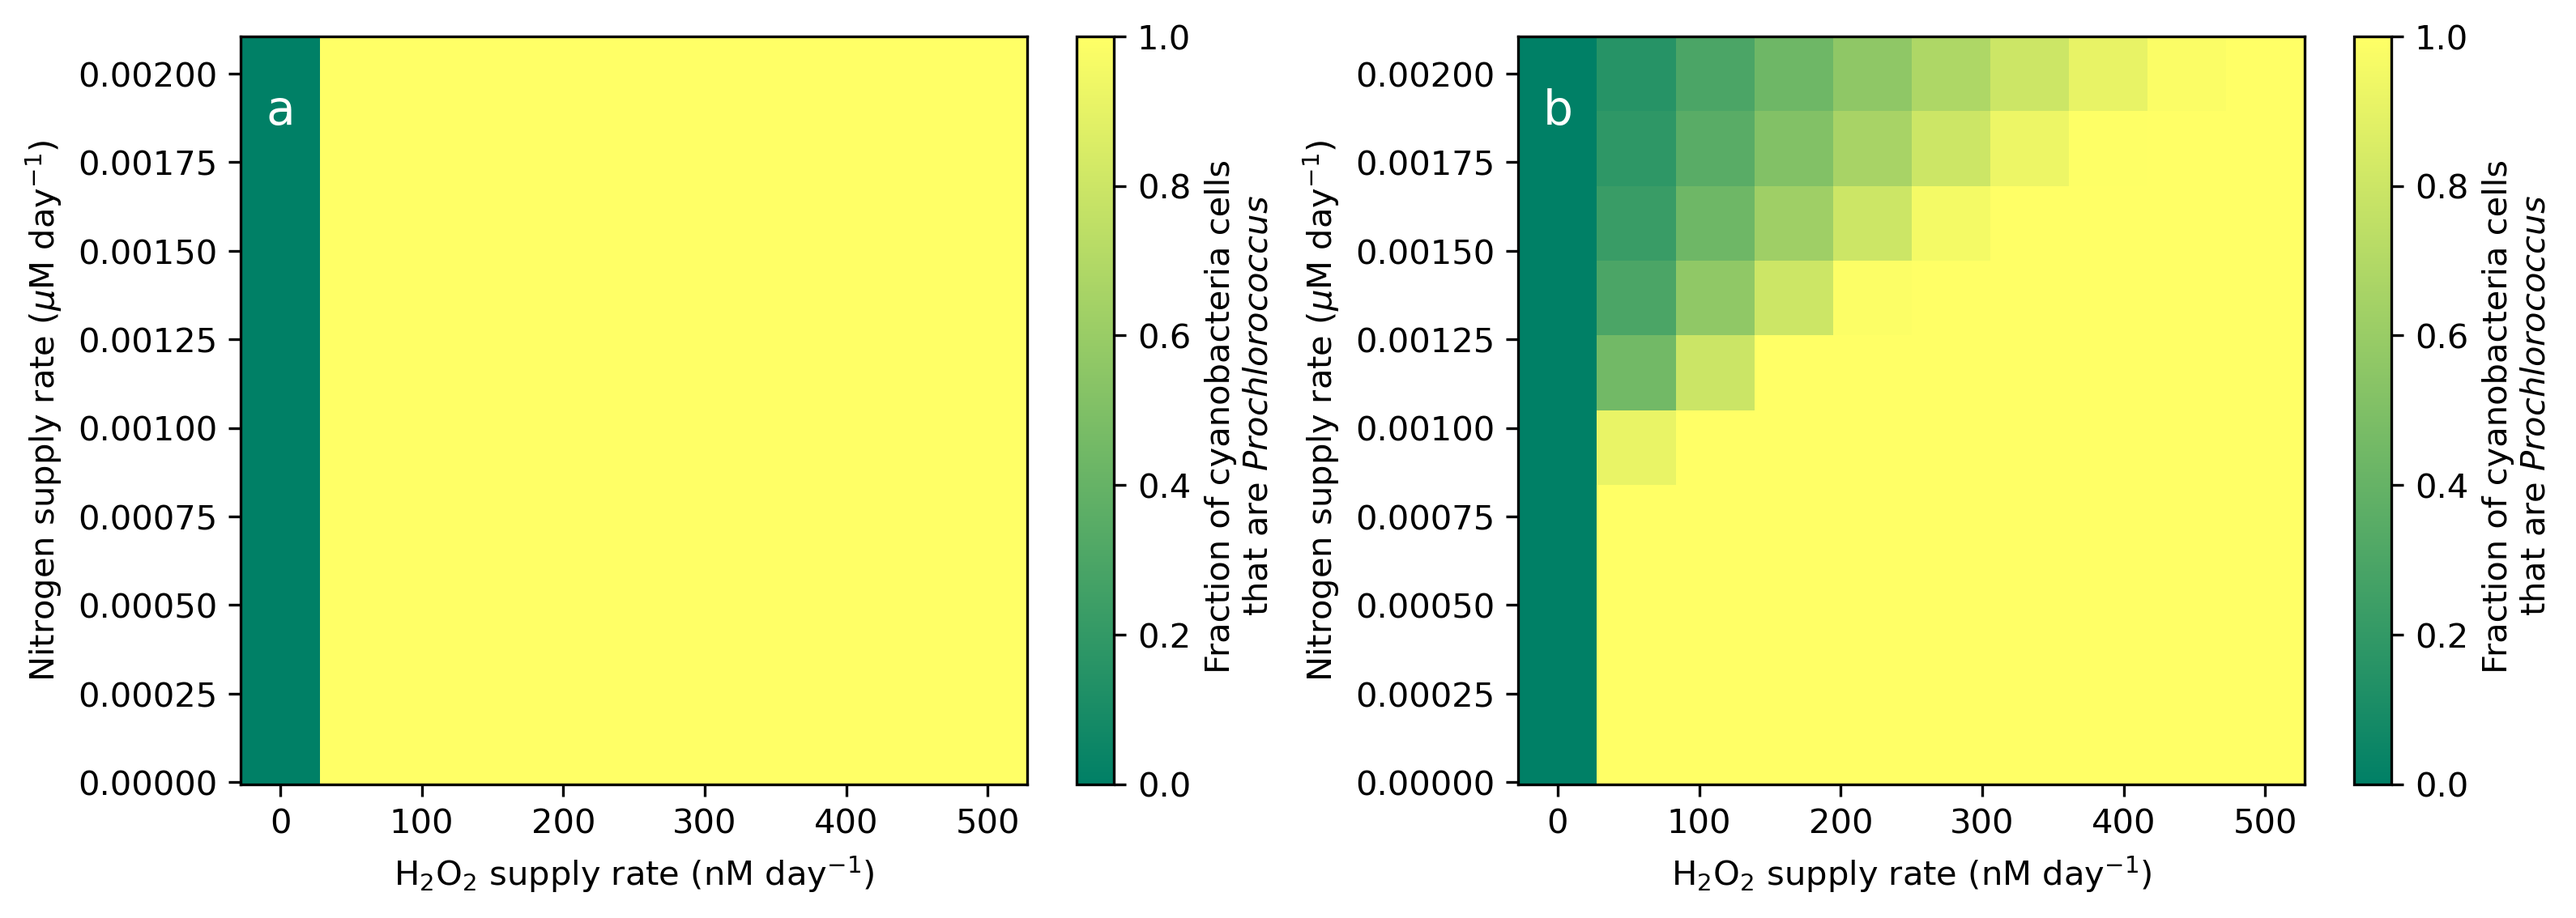
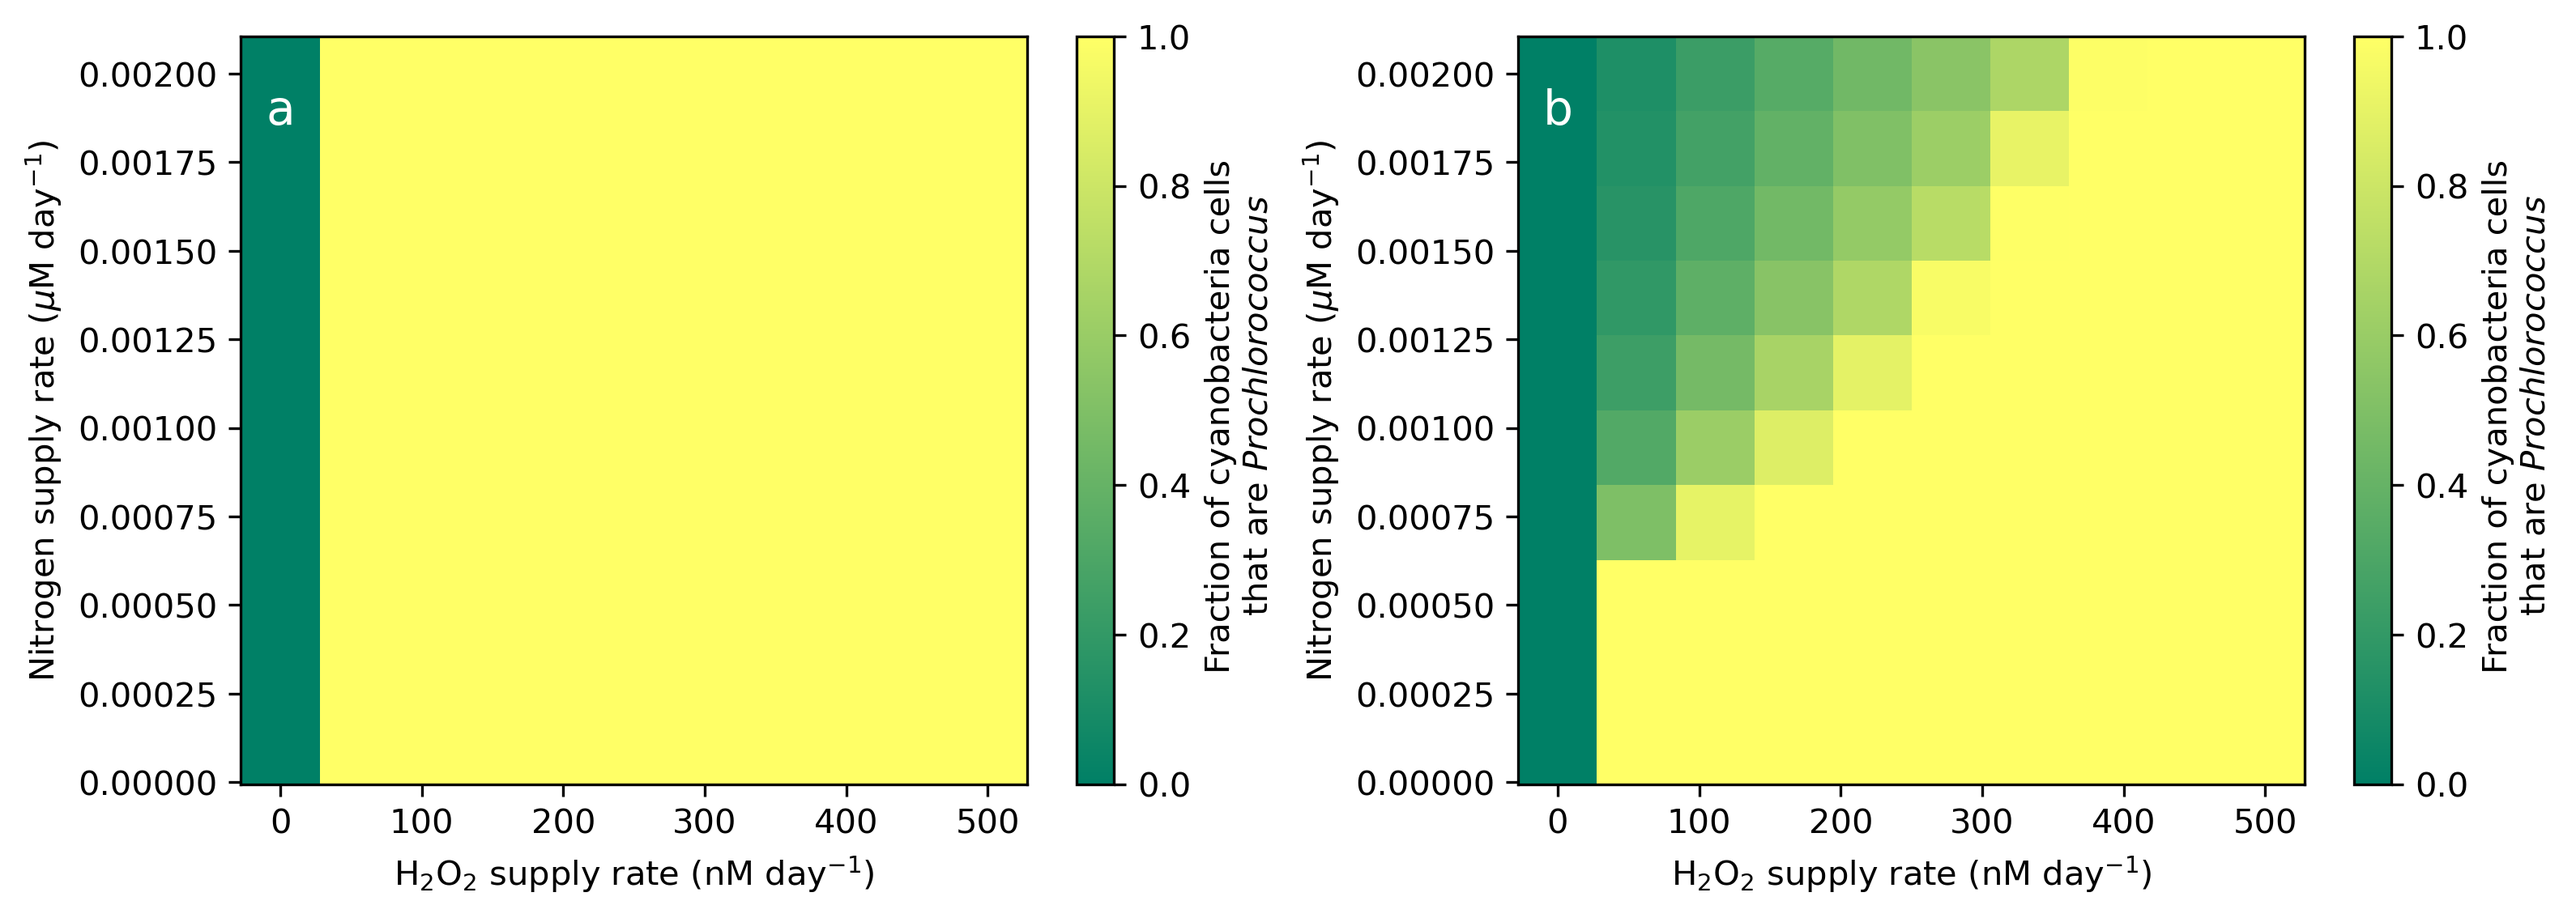
tweaks to plots

Changed region(s): [[0.6226, 0.0309, 0.8094, 0.6173]]

diff --git a/src/simulations.py b/src/simulations.py
@@ -54,8 +54,8 @@ H = np.array([])
 y = [P,S,N,H]
 
 #initial conditions
-P0 = 1e6
-S0 = 1e6
+P0 = 1e5
+S0 = 1e5
 N0 = 0.1 #nM 
 H0 = 1    #nM
 inits = (P0,S0,N0,H0)
@@ -68,8 +68,8 @@ Nc,Pc,Sc,Hc = Z.copy(),Z.copy(),Z.copy(),Z.copy()
 
 # axis limits
 cmin,cmax = 1e+5,1e+8
-nmin,nmax = 4e-4,1e-0
-hmin,hmax = 1e-2,3e+2
+nmin,nmax = 1e-4,1e-0
+hmin,hmax = 1e-2,1e+3
 
 # contour labels
 SNlab = r'Nitrogen supply rate ($\mu$M day$^{-1}$)'
@@ -111,7 +111,7 @@ f5.savefig('../figures/figure2',dpi=300,bbox_inches='tight')
 phi = 0.0
 for (i,SN) in zip(range(SNs.shape[0]),SNs):
     for (j,Sh) in zip(range(Shs.shape[0]),Shs):
-        params = [ksp,kss,mumaxp,mumaxs,dp,ds,kdam,deltah,phi,rho,SN,Sh,Qnp,Qns,0]
+        params = [ksp,kss,mumaxp,mumaxs,dp,ds,kdam,deltah,phi,rho,SN,Sh,Qnp,Qns,0,0]
         leaky  = odeint(leak, inits, mtimes, args = (params,))
         Psc = leaky[:,0]
         Ssc = leaky[:,1]
@@ -130,7 +130,7 @@ fig1.colorbar(grid, cmap= 'summer',label = cbarlab)
 phi = 1.7e-6
 for (i,SN) in zip(range(SNs.shape[0]),SNs):
     for (j,Sh) in zip(range(Shs.shape[0]),Shs):
-        params = [ksp,kss,mumaxp,mumaxs,dp,ds,kdam,deltah,phi,rho,SN,Sh,Qnp,Qns,0]
+        params = [ksp,kss,mumaxp,mumaxs,dp,ds,kdam,deltah,phi,rho,SN,Sh,Qnp,Qns,0,False]
         leaky  = odeint(leak, inits, mtimes, args = (params,))
         Psc = leaky[:,0]
         Ssc = leaky[:,1]
@@ -156,7 +156,8 @@ for (ax,C,cm,cmlab) in zip(axc,[Nc,Pc,Sc,Hc],['Purples','Blues','Reds','Greens']
     fig3.colorbar(grid,ax=ax,label=cmlab)
 
 # plot
-for (ax,C,levs) in zip(axc[1:],[Pc,Sc,Hc],[[1e+4,1e+5],[1e+4,1e+5],[0,200]]):
+Pc = np.ma.masked_where(Pc < 1e+2, Pc)
+for (ax,C,levs) in zip(axc[1:],[Pc,Sc,Hc],[[1e+3,1e+6],[1e+2,1e+5],[0,200]]):
     contour = ax.contour(Shs, SNs, C, levels=levs, colors='black')
     plt.clabel(contour, inline=True, fontsize=12)
 
@@ -169,7 +170,7 @@ ax_top.text(-0.3,1.0,'a',ha='center',va='center',color='k',transform=ax_top.tran
 #params for P to Win 
 Sh = Shs[0]
 SN  = SNs[2]
-params = [ksp,kss,mumaxp,mumaxs,dp,ds,kdam,deltah,phi,rho,SN,Sh,Qnp,Qns,0]
+params = [ksp,kss,mumaxp,mumaxs,dp,ds,kdam,deltah,phi,rho,SN,Sh,Qnp,Qns,0,False]
 
 #get equilibria with function 
 Nstar, Pstar, Sstar, Hstar = Pwins(params)
@@ -224,7 +225,7 @@ ax1.text(-0.2,1.2,'b',ha='center',va='center',color='k',transform=ax1.transAxes,
 #params for S to Win 
 Sh = Shs[-3]
 SN  = SNs[4]
-params = [ksp,kss,mumaxp,mumaxs,dp,ds,kdam,deltah,phi,rho,SN,Sh,Qnp,Qns,0]
+params = [ksp,kss,mumaxp,mumaxs,dp,ds,kdam,deltah,phi,rho,SN,Sh,Qnp,Qns,0,False]
 
 #get equilibria with function 
 Nstar, Pstar, Sstar, Hstar = Swins(params)
@@ -276,8 +277,8 @@ ax1.text(-0.2,1.2,'c',ha='center',va='center',color='k',transform=ax1.transAxes,
 
 #params for coexists
 Sh = Shs[2]
-SN = SNs[5]
-params = [ksp,kss,mumaxp,mumaxs,dp,ds,kdam,deltah,phi,rho,SN,Sh,Qnp,Qns,0]
+SN = SNs[7]
+params = [ksp,kss,mumaxp,mumaxs,dp,ds,kdam,deltah,phi,rho,SN,Sh,Qnp,Qns,0,False]
 
 #run model 
 competition  = odeint(leak, inits, mtimes, args = (params,))
@@ -365,16 +366,21 @@ ax2 = fig4.add_subplot(gs[0, 3:6])
 ax3 = fig4.add_subplot(gs[2, 1:5])
 ax4 = fig4.add_subplot(gs[3, 1:5])
 
-EZ55s = np.linspace(1e+5, 1e+6, num = 10)
+EZ55s = np.linspace(1e+4, 1e+6, num = 10)
 Shs = np.linspace(0, 500, num = 10)
 Z = np.zeros((int(EZ55s.shape[0]),int(Shs.shape[0])),float)
 HOOH = np.zeros((int(EZ55s.shape[0]),int(Shs.shape[0])),float)
-SN = SNs[5]
-inits = (1e+4,1e+4,0.1,10)
+SN = 0.00038
+#inits = (1e+2,1e+2,0.1,10)
+
+# time domain
+step = 0.001
+ndays = 800
+mtimes = np.linspace(0,ndays,int(ndays/step))
 
 for (i,EZ55) in zip(range(EZ55s.shape[0]),EZ55s):
     for (j,Sh) in zip(range(Shs.shape[0]),Shs):
-        params = [ksp,kss,mumaxp,mumaxs,dp,ds,kdam,deltah,phi,rho,SN,Sh,Qnp,Qns,EZ55]
+        params = [ksp,kss,mumaxp,mumaxs,dp,ds,kdam,deltah,phi,rho,SN,Sh,Qnp,Qns,EZ55,False]
         leaky  = odeint(leak, inits, mtimes, args = (params,))
         Nstar, Pstar, Sstar, Hstar = Coexist(params)
         Psc = leaky[:,0]
@@ -420,16 +426,19 @@ ax1t.set_ylabel(r'abiotic decay rate (day$^{-1}$)')
 # P WINS
 ####################
 # connecting arrows
-Sh,EZ55 = Shs[3], EZ55s[8]
+Sh,EZ55 = Shs[4], EZ55s[6]
 xyA = (Sh,EZ55/1e+6)
 xyB = (-0.2, 0.5)
 ax1.plot(*xyA, 'o', color='blue')
-con = ConnectionPatch(xyA, xyB, axesA = ax1, axesB = ax4, coordsA=ax1.transData, coordsB='axes fraction',
-                      color='black', arrowstyle='->', linewidth=2, connectionstyle='arc3,rad=0.2')
+
+
+
+con = ConnectionPatch(xyA, xyB, axesA = ax1, axesB = ax3, coordsA=ax1.transData, coordsB='axes fraction',
+                      color='black', arrowstyle='->', linewidth=2, connectionstyle='arc3,rad=0.3')
 fig4.add_artist(con)
 
 # dynamics
-params = [ksp,kss,mumaxp,mumaxs,dp,ds,kdam,deltah,phi,rho,SN,Sh,Qnp,Qns,EZ55]
+params = [ksp,kss,mumaxp,mumaxs,dp,ds,kdam,deltah,phi,rho,SN,Sh,Qnp,Qns,EZ55,False]
 competition  = odeint(leak, inits, mtimes, args = (params,))
 Nstar, Pstar, Sstar, Hstar = Pwins(params)
 Ps = competition[:,0]
@@ -447,18 +456,18 @@ l3.draw_frame(False)
 # S WINS
 ####################
 # connecting arrows
-Sh,EZ55 = Shs[7], EZ55s[7]
+Sh,EZ55 = Shs[3], EZ55s[1]
 xyA = (Sh,EZ55/1e+6)
-xyB = (0.25, 1.2)
+xyB = (-0.2, 0.5)
 ax1.plot(*xyA, 'o', color='blue')
-con = ConnectionPatch(xyA, xyB, axesA = ax1, axesB = ax3, coordsA=ax1.transData, coordsB='axes fraction',
-                      color='black', arrowstyle='->', linewidth=2, connectionstyle='arc3,rad=-0.3')
+con = ConnectionPatch(xyA, xyB, axesA = ax1, axesB = ax4, coordsA=ax1.transData, coordsB='axes fraction',
+                      color='black', arrowstyle='->', linewidth=2, connectionstyle='arc3,rad=0.4')
 fig4.add_artist(con)
 
 # dynamics
-params = [ksp,kss,mumaxp,mumaxs,dp,ds,kdam,deltah,phi,rho,SN,Sh,Qnp,Qns,EZ55]
+params = [ksp,kss,mumaxp,mumaxs,dp,ds,kdam,deltah,phi,rho,SN,Sh,Qnp,Qns,EZ55,False]
+Nstar, Pstar, Sstar, Hstar = Swins(params)
 competition  = odeint(leak, inits, mtimes, args = (params,))
-Nstar, Pstar, Sstar, Hstar = Coexist(params)
 Ps = competition[:,0]
 Ss = competition[:,1]
 ax4.plot(mtimes, Ps , linewidth = 3, color = 'g')
@@ -472,10 +481,11 @@ ax4.set(xlabel='Time (days)', ylabel=clab)
 ax3.semilogy()
 ax4.semilogy()
 
-ax4.set_ylim([1e-2,1e+8])
+ax3.set_ylim([1e+4,1e+8])
+ax4.set_ylim([1e+4,1e+8])
 
 # labels
-ax1.text(0.1,0.9,'a',ha='center',va='center',color='w',transform=ax1.transAxes,fontsize=14)
+ax1t.text(0.1,0.9,'a',ha='center',va='center',color='w',transform=ax1t.transAxes,fontsize=14)
 ax2.text(0.1,0.9,'b',ha='center',va='center',color='k',transform=ax2.transAxes,fontsize=14)
 ax3.text(0.05,0.9,'c',ha='center',va='center',color='k',transform=ax3.transAxes,fontsize=14)
 ax4.text(0.05,0.9,'d',ha='center',va='center',color='k',transform=ax4.transAxes,fontsize=14)

diff --git a/src/functions.py b/src/functions.py
@@ -16,7 +16,7 @@ ds =  0.1   #syn delta
 kdam = 0.005555   #hooh mediated damage rate of Pro mccullough 2025 
 deltah = 0.001       # background decay rate mccullough 2025
 phi = 1.7e-6    #0007  #syn detox decay of HOOH mccullough 2025
-rho =  0.2 # assumed
+rho =  0.1 # assumed
 Qnp = 9.4e-15/14.0*1e+6  #Nitrogen Quota for Pro from Bertilison in mumol N cell-1
 Qns = 20.0e-15/14.0*1e+6 # and for syn 
 
@@ -26,12 +26,15 @@ Qns = 20.0e-15/14.0*1e+6 # and for syn
 
 # tendencies
 def leak(y,t,params):
-    ksp,kss,mumaxp,mumaxs,dp,ds,kdam,deltah,phi,rho,SN,Sh,Qnp,Qns,EZ55 = params
+    ksp,kss,mumaxp,mumaxs,dp,ds,kdam,deltah,phi,rho,SN,Sh,Qnp,Qns,EZ55,flag = params
     P,S,N,H = max(y[0],1e-30),max(y[1],1e-30),max(y[2],1e-30),max(y[3],1e-30)
     dPdt = (mumaxp * N /( (ksp) + N) )*P - (dp *P) - kdam*H*P
     dSdt =(mumaxs * N /( (kss) + N))*S - (ds *S)     
     dNdt =  SN - Qnp*(mumaxp * N /(ksp + N)*P) - Qns*(mumaxs * N /(kss + N)*S) - rho*N    
     dHdt = Sh - deltah*H  - phi*S*H - 13e-6*EZ55*H
+    if flag == True:
+        print(P,S,N,H)
+        print(dPdt,dSdt,dNdt,dHdt)
     return [dPdt,dSdt,dNdt,dHdt]
 
 #################################################
@@ -39,7 +42,7 @@ def leak(y,t,params):
 ################################################
 
 def death_all(params):
-    ksp,kss,mumaxp,mumaxs,dp,ds,kdam,deltah,phi,rho,SN,Sh,Qnp,Qns,EZ55 = params
+    ksp,kss,mumaxp,mumaxs,dp,ds,kdam,deltah,phi,rho,SN,Sh,Qnp,Qns,EZ55,flag = params
     Nstar = SN/(rho)
     Pstar = 0
     Sstar = 0
@@ -47,7 +50,7 @@ def death_all(params):
     return  Nstar, Pstar, Sstar, Hstar 
 
 def Pwins (params): 
-    ksp,kss,mumaxp,mumaxs,dp,ds,kdam,deltah,phi,rho,SN,Sh,Qnp,Qns,EZ55 = params
+    ksp,kss,mumaxp,mumaxs,dp,ds,kdam,deltah,phi,rho,SN,Sh,Qnp,Qns,EZ55,flag = params
     Hstar = Sh/(deltah+13e-6*EZ55)
     Nstar =  ((ds +kdam*Hstar)*ksp)/(mumaxp - ((ds+kdam*Hstar)))
     Pstar = ((SN-rho*Nstar)*(Nstar+ksp)) / (mumaxp*Nstar*Qnp)
@@ -55,7 +58,7 @@ def Pwins (params):
     return  Nstar, Pstar, Sstar, Hstar 
 
 def Swins (params): 
-    ksp,kss,mumaxp,mumaxs,dp,ds,kdam,deltah,phi,rho,SN,Sh,Qnp,Qns,EZ55 = params
+    ksp,kss,mumaxp,mumaxs,dp,ds,kdam,deltah,phi,rho,SN,Sh,Qnp,Qns,EZ55,flag = params
     Nstar = (ds*kss)/(mumaxs-ds)
     Pstar = 0
     Sstar = ((SN-rho*Nstar)*(Nstar+kss)) / (mumaxs*Nstar*Qns)
@@ -63,7 +66,7 @@ def Swins (params):
     return  Nstar, Pstar, Sstar, Hstar 
 
 def Coexist (params): 
-    ksp,kss,mumaxp,mumaxs,dp,ds,kdam,deltah,phi,rho,SN,Sh,Qnp,Qns,EZ55 = params
+    ksp,kss,mumaxp,mumaxs,dp,ds,kdam,deltah,phi,rho,SN,Sh,Qnp,Qns,EZ55,flag = params
     Nstar = (ds*kss)/(mumaxs-ds)
     Hstar = 1/kdam*(mumaxp*Nstar/(ksp+Nstar)-ds)
     Sstar = (Sh/Hstar-deltah-13e-6*EZ55) /(phi)
